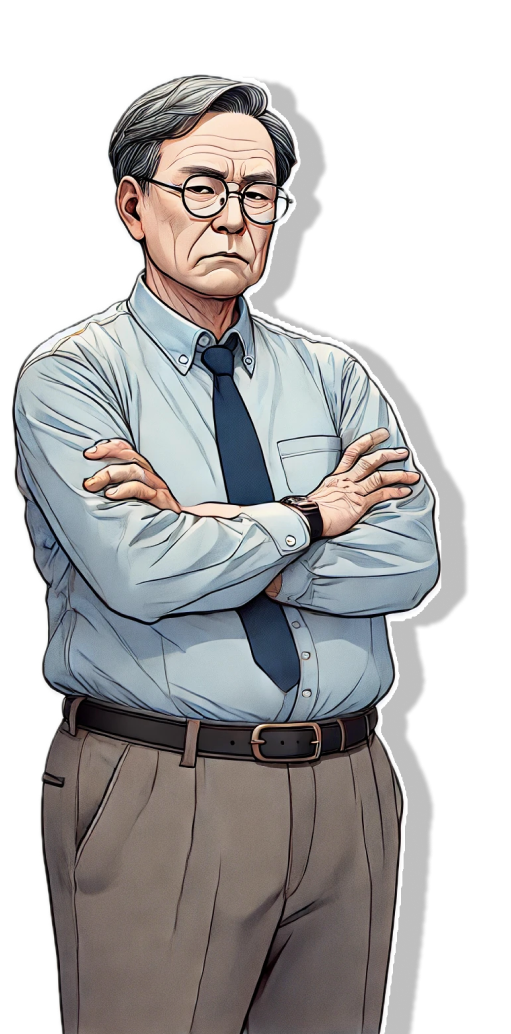
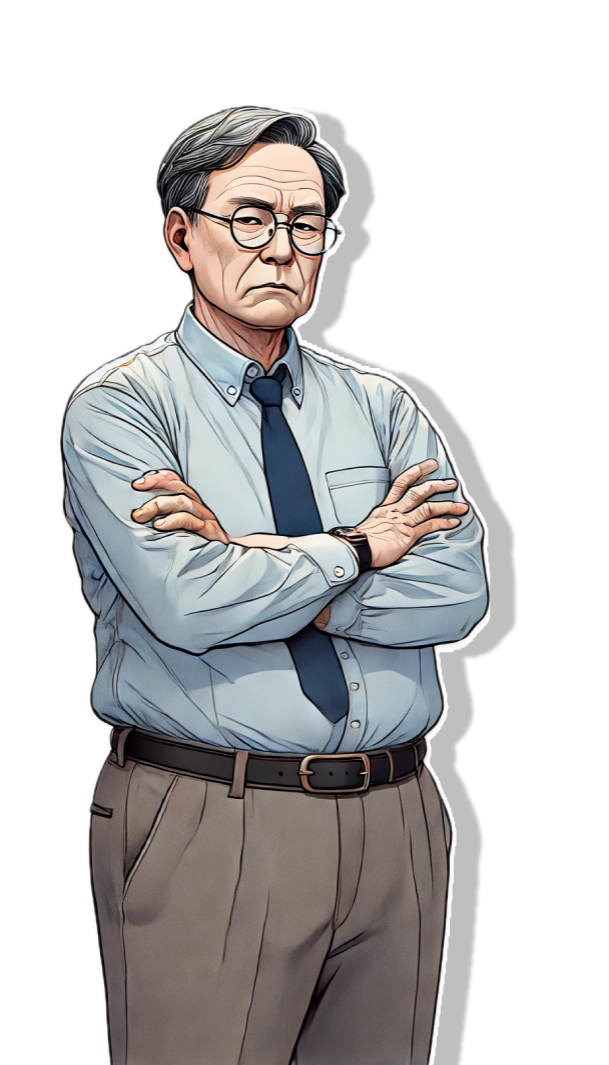
design: 시작페이지 반응형 레이아웃 구현

diff --git a/src/pages/StartPage.tsx b/src/pages/StartPage.tsx
@@ -20,21 +20,21 @@ const StartPage: React.FC = () => {
 
   return (
     <div className="flex flex-col items-center justify-end w-screen h-screen bg-cover" style={{ backgroundImage: `url(${background_s})` }}>
-      <div className='z-40 w-[60rem] h-[18rem] mt-4 ml-[5.5rem] translate-y-96'>
+      <div className='z-40 2k:w-[60rem] 2k:h-[18rem] 2k:mt-4 2k:ml-[5.5rem] 2k:translate-y-[19.3rem] lg:w-[45rem] lg:ml-[4rem] lg:translate-y-44 md:w-[30rem] md:ml-[3rem] md:translate-y-32 sm:w-[25rem] sm:ml-[2rem] sm:translate-y-24'>
         <img src={logo_i} alt="logo" />
       </div>
       <button 
         type="button" 
-        className="z-40 mb-10 text-6xl font-normal text-center gradient-text font-dnf text-border-norm translate-y-[60rem]"
+        className="z-40 2k:text-6xl lg:text-5xl md:text-4xl sm:text-3xl font-normal text-center gradient-text font-dnf text-border-custom 2k:translate-y-[60rem] lg:translate-y-[35rem] md:translate-y-[24rem] sm:translate-y-[21rem]"
         onClick={handleButtonClick}
       >
         시작하기
       </button>
       <div className="flex flex-row items-end justify-center w-full">
-        <img src={bg_stand1} alt="male_a" className="z-10" />
-        <img src={bg_stand2} alt="female_a" className="z-20 -ml-56" />
-        <img src={bg_stand3} alt="female_b" className="z-30 -ml-20" />
-        <img src={bg_stand4} alt="male_b" className="-ml-32 z-25" />
+        <img src={bg_stand1} alt="male_a" className="z-10 2k:w-auto 2k:h-auto 2k:ml-28            lg:w-[22rem] lg:ml-10         md:w-[15rem] md:ml-8          sm:w-[13rem] sm: ml-6" />
+        <img src={bg_stand2} alt="female_a" className="z-20 2k:w-auto 2k:h-auto 2k:-ml-[15rem]    lg:w-[22rem] lg:-ml-[8rem]    md:w-[15rem] md:-ml-[6rem]    sm:w-[13rem] sm:-ml-[5rem]" />
+        <img src={bg_stand3} alt="female_b" className="z-30 2k:w-auto 2k:h-auto 2k:-ml-[10.6rem]  lg:w-[22rem] lg:-ml-[6.8rem]  md:w-[15rem] md:-ml-[4.6rem]  sm:w-[13rem] sm:-ml-[4rem]" />
+        <img src={bg_stand4} alt="male_b" className="z-25 2k:w-auto 2k:h-auto 2k:-ml-[14.5rem]    lg:w-[23rem] lg:-ml-[8rem]    md:w-[16rem] md:-ml-[6rem]    sm:w-[14rem] sm:-ml-[5rem]" />
       </div>
     </div>
   );

diff --git a/src/index.css b/src/index.css
@@ -62,11 +62,23 @@ html,body,#root {
   -webkit-text-stroke: 4px black; 
 }
 
-.text-border-norm {
+.text-border-custom {
   position: relative;
   color: transparent;
   display: inline-block;
-  -webkit-text-stroke: 3px black; 
+  -webkit-text-stroke: 3px black;
+}
+
+@media (max-width: 1024px) {
+  .text-border-custom {
+    -webkit-text-stroke: 2px black;
+  }
+}
+
+@media (max-width: 640px) {
+  .text-border-custom {
+    -webkit-text-stroke: 1.5px black;
+  }
 }
 /* Custom Scrollbar Styles */
 .webpage-scrollbar::-webkit-scrollbar {
@@ -293,10 +305,37 @@ body {
 }
 
 .custom-cursor {
-  width: 65px;
-  height: 65px;
   position: absolute;
   pointer-events: none; 
   background: url('./assets/images/others/coffee.png') no-repeat center center;
   background-size: cover;
-  z-index: 1000; }
+  z-index: 1000;
+}
+
+@media (min-width: 1728px) {
+  .custom-cursor {
+    width: 65px;
+    height: 65px;
+  }
+}
+
+@media (min-width: 1024px) and (max-width: 1727px){
+  .custom-cursor {
+    width: 50px;
+    height: 50px;
+  }
+}
+
+@media (min-width: 768px) and (max-width: 1023px) {
+  .custom-cursor {
+    width: 40px;
+    height: 40px;
+  }
+}
+
+@media (max-width: 767px) {
+  .custom-cursor {
+    width: 35px;
+    height: 35px;
+  }
+}

diff --git a/tailwind.config.js b/tailwind.config.js
@@ -3,6 +3,9 @@ module.exports = {
   darkMode: false, // or 'media' or 'class'
   theme: {
     extend: {
+      screens: {
+        '2k': '1728px', 
+      },
       backgroundImage: {
         'main_s': "url('src/assets/images/background/background_s.png')",
         'main_h': "url('src/assets/images/background/background_h.png')",
